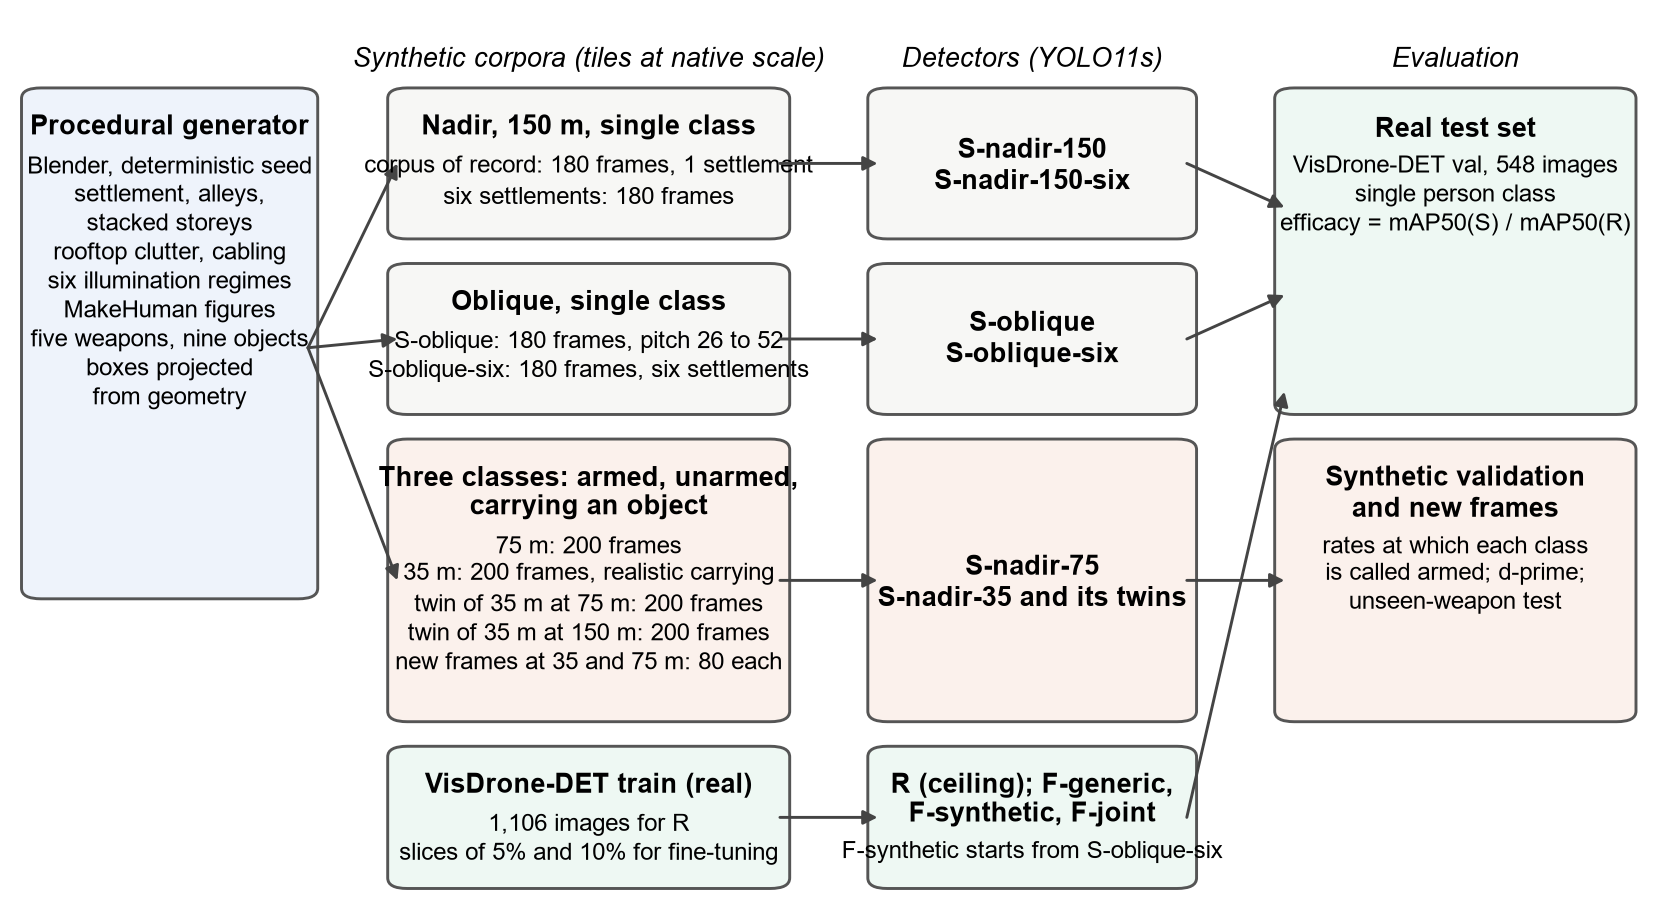
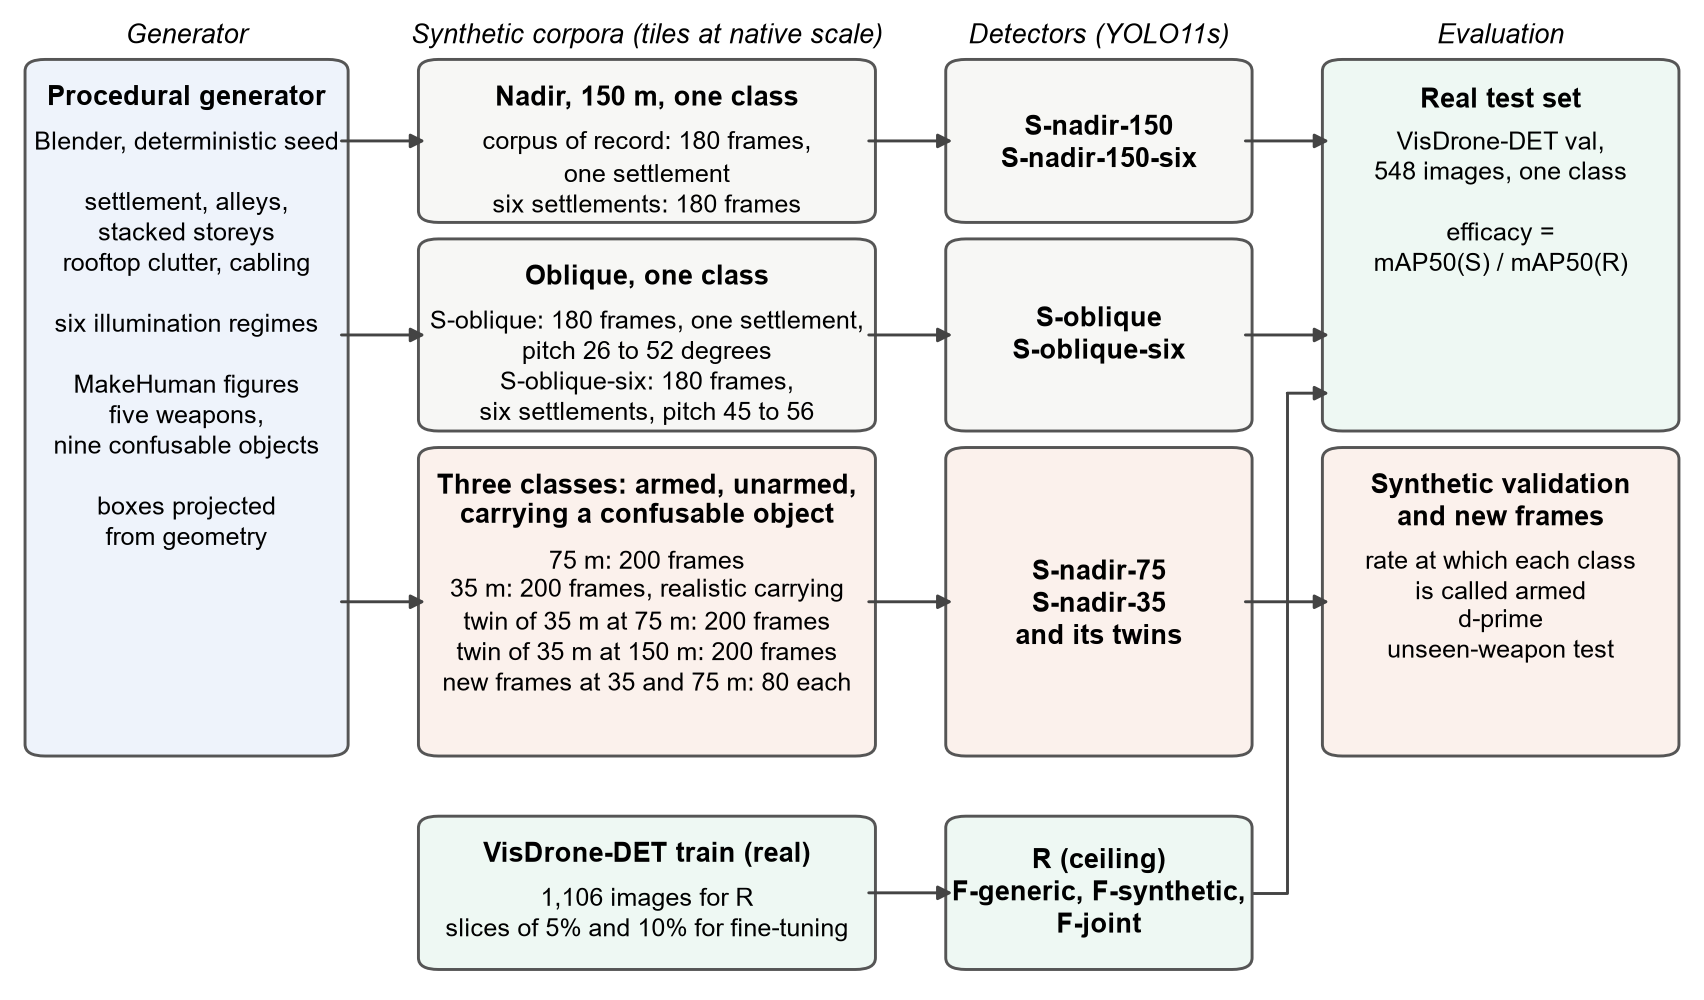
Figura 5 (desenho experimental) refeita: setas horizontais, texto dentro das caixas

Changed region(s): [[0.0, 0.0, 1.0, 0.9879], [0.0, 0.7409, 0.2154, 0.7718], [0.0616, 0.4939, 0.1539, 0.5557]]

diff --git a/06-resultados/figuras_mpl.py b/06-resultados/figuras_mpl.py
@@ -114,56 +114,83 @@ def L(*linhas):
 
 
 def fig_desenho():
-    fig, ax = plt.subplots(figsize=(7.0, 3.8), dpi=300)
+    """Fluxo em quatro colunas com setas so horizontais (e um cotovelo pela calha entre colunas),
+    para nenhuma seta cruzar texto; refeito em 30/09 depois de o autor apontar a versao anterior
+    como mal formatada (setas diagonais sobre o texto e linhas saindo das caixas)."""
+    fig, ax = plt.subplots(figsize=(7.2, 4.2), dpi=300)
     ax.set_xlim(0, 1)
     ax.set_ylim(0, 1)
     ax.axis("off")
-    X1, W1 = 0.235, 0.235   # corpora
-    X2, W2 = 0.53, 0.19     # detectores
-    X3, W3 = 0.78, 0.21     # avaliacao
-    R1 = (0.75, 0.16)       # (base, altura) linha nadir
-    R2 = (0.55, 0.16)       # obliquo
-    R3 = (0.20, 0.31)       # tres classes
-    R4 = (0.01, 0.15)       # dado real
+    XA, WA = 0.01, 0.185    # gerador
+    XB, WB = 0.245, 0.265   # corpora
+    XC, WC = 0.56, 0.175    # detectores
+    XD, WD = 0.785, 0.205   # avaliacao
+    R1 = (0.79, 0.16)       # (base, altura) nadir
+    R2 = (0.575, 0.19)      # obliquo
+    R3 = (0.24, 0.31)       # tres classes
+    R4 = (0.02, 0.15)       # dado real
     mid = lambda r: r[0] + r[1] / 2  # noqa: E731
+    TIT, CORPO = 6.6, 5.9
 
-    caixa(ax, 0.01, 0.34, 0.17, 0.57, "Procedural generator",
-          L("Blender, deterministic seed", "settlement, alleys,", "stacked storeys", "rooftop clutter, cabling",
-            "six illumination regimes", "MakeHuman figures", "five weapons, nine objects", "boxes projected",
-            "from geometry"), cor="#eef3fb")
-    for r in (R1, R2, R3):
-        seta(ax, 0.18, 0.62, X1, mid(r))
+    def bloco(x, y, w, h, titulo, corpo="", cor="#f7f7f5"):
+        ax.add_patch(FancyBboxPatch((x, y), w, h, boxstyle="round,pad=0.004,rounding_size=0.012",
+                                    fc=cor, ec="#555", lw=0.7, zorder=2))
+        n_tit = titulo.count(NL) + 1
+        if corpo:
+            ax.text(x + w / 2, y + h - 0.02, titulo, ha="center", va="top", fontsize=TIT, fontweight="bold",
+                    zorder=3, linespacing=1.15)
+            ax.text(x + w / 2, y + h - 0.02 - 0.03 * n_tit - 0.016, corpo, ha="center", va="top",
+                    fontsize=CORPO, zorder=3, linespacing=1.32)
+        else:
+            ax.text(x + w / 2, y + h / 2, titulo, ha="center", va="center", fontsize=TIT, fontweight="bold",
+                    zorder=3, linespacing=1.25)
 
-    ax.text(X1 + W1 / 2, 0.94, "Synthetic corpora (tiles at native scale)", ha="center", fontsize=6.6, style="italic")
-    caixa(ax, X1, R1[0], W1, R1[1], "Nadir, 150 m, single class",
-          L("corpus of record: 180 frames, 1 settlement", "six settlements: 180 frames"), cor="#f7f7f5")
-    caixa(ax, X1, R2[0], W1, R2[1], "Oblique, single class",
-          L("S-oblique: 180 frames, pitch 26 to 52", "S-oblique-six: 180 frames, six settlements"), cor="#f7f7f5")
-    caixa(ax, X1, R3[0], W1, R3[1], L("Three classes: armed, unarmed,", "carrying an object"),
+    def cabeca(x, w, txt):
+        ax.text(x + w / 2, 0.978, txt, ha="center", va="center", fontsize=6.6, style="italic")
+
+    def seta_h(x0, x1, y):
+        seta(ax, x0, y, x1, y)
+
+    cabeca(XA, WA, "Generator")
+    bloco(XA, R3[0], WA, R1[0] + R1[1] - R3[0], "Procedural generator",
+          L("Blender, deterministic seed", "", "settlement, alleys,", "stacked storeys", "rooftop clutter, cabling",
+            "", "six illumination regimes", "", "MakeHuman figures", "five weapons,", "nine confusable objects", "",
+            "boxes projected", "from geometry"), cor="#eef3fb")
+
+    cabeca(XB, WB, "Synthetic corpora (tiles at native scale)")
+    bloco(XB, R1[0], WB, R1[1], "Nadir, 150 m, one class",
+          L("corpus of record: 180 frames,", "one settlement", "six settlements: 180 frames"))
+    bloco(XB, R2[0], WB, R2[1], "Oblique, one class",
+          L("S-oblique: 180 frames, one settlement,", "pitch 26 to 52 degrees",
+            "S-oblique-six: 180 frames,", "six settlements, pitch 45 to 56"))
+    bloco(XB, R3[0], WB, R3[1], L("Three classes: armed, unarmed,", "carrying a confusable object"),
           L("75 m: 200 frames", "35 m: 200 frames, realistic carrying", "twin of 35 m at 75 m: 200 frames",
             "twin of 35 m at 150 m: 200 frames", "new frames at 35 and 75 m: 80 each"), cor="#fbf1ec")
-    caixa(ax, X1, R4[0], W1, R4[1], "VisDrone-DET train (real)",
+    bloco(XB, R4[0], WB, R4[1], "VisDrone-DET train (real)",
           L("1,106 images for R", "slices of 5% and 10% for fine-tuning"), cor="#eef8f3")
+    for r in (R1, R2, R3):
+        seta_h(XA + WA, XB, mid(r))
 
-    ax.text(X2 + W2 / 2, 0.94, "Detectors (YOLO11s)", ha="center", fontsize=6.6, style="italic")
-    caixa(ax, X2, R1[0], W2, R1[1], L("S-nadir-150", "S-nadir-150-six"), cor="#f7f7f5")
-    caixa(ax, X2, R2[0], W2, R2[1], L("S-oblique", "S-oblique-six"), cor="#f7f7f5")
-    caixa(ax, X2, R3[0], W2, R3[1], L("S-nadir-75", "S-nadir-35 and its twins"), cor="#fbf1ec")
-    caixa(ax, X2, R4[0], W2, R4[1], L("R (ceiling); F-generic,", "F-synthetic, F-joint"),
-          "F-synthetic starts from S-oblique-six", cor="#eef8f3")
+    cabeca(XC, WC, "Detectors (YOLO11s)")
+    bloco(XC, R1[0], WC, R1[1], L("S-nadir-150", "S-nadir-150-six"))
+    bloco(XC, R2[0], WC, R2[1], L("S-oblique", "S-oblique-six"))
+    bloco(XC, R3[0], WC, R3[1], L("S-nadir-75", "S-nadir-35", "and its twins"), cor="#fbf1ec")
+    bloco(XC, R4[0], WC, R4[1], L("R (ceiling)", "F-generic, F-synthetic,", "F-joint"), cor="#eef8f3")
     for r in (R1, R2, R3, R4):
-        seta(ax, X1 + W1, mid(r), X2, mid(r))
+        seta_h(XB + WB, XC, mid(r))
 
-    ax.text(X3 + W3 / 2, 0.94, "Evaluation", ha="center", fontsize=6.6, style="italic")
-    caixa(ax, X3, R2[0], W3, R1[0] + R1[1] - R2[0], "Real test set",
-          L("VisDrone-DET val, 548 images", "single person class", "efficacy = mAP50(S) / mAP50(R)"), cor="#eef8f3")
-    caixa(ax, X3, R3[0], W3, R3[1], L("Synthetic validation", "and new frames"),
-          L("rates at which each class", "is called armed; d-prime;", "unseen-weapon test"), cor="#fbf1ec")
-    ymid_real = (R2[0] + R1[0] + R1[1]) / 2
-    seta(ax, X2 + W2, mid(R1), X3, ymid_real + 0.05)
-    seta(ax, X2 + W2, mid(R2), X3, ymid_real - 0.05)
-    seta(ax, X2 + W2, mid(R3), X3, mid(R3))
-    seta(ax, X2 + W2, mid(R4), X3, R2[0] + 0.02)
+    cabeca(XD, WD, "Evaluation")
+    bloco(XD, R2[0], WD, R1[0] + R1[1] - R2[0], "Real test set",
+          L("VisDrone-DET val,", "548 images, one class", "", "efficacy =", "mAP50(S) / mAP50(R)"), cor="#eef8f3")
+    bloco(XD, R3[0], WD, R3[1], L("Synthetic validation", "and new frames"),
+          L("rate at which each class", "is called armed", "d-prime", "unseen-weapon test"), cor="#fbf1ec")
+    seta_h(XC + WC, XD, mid(R1))
+    seta_h(XC + WC, XD, mid(R2))
+    seta_h(XC + WC, XD, mid(R3))
+    # R e os modelos de ajuste fino vao ao mesmo conjunto de teste real: cotovelo pela calha
+    xg = XC + WC + (XD - XC - WC) / 2
+    ax.plot([XC + WC, xg, xg], [mid(R4), mid(R4), R2[0] + 0.035], color="#444", lw=0.7, zorder=1)
+    seta_h(xg, XD, R2[0] + 0.035)
 
     fig.savefig(os.path.join(OUT, "fig9_desenho_experimental.png"), bbox_inches="tight", pad_inches=0.05)
     plt.close(fig)

diff --git a/01-artigo/manuscrito/03b-methodology-synthetic-pipeline.md b/01-artigo/manuscrito/03b-methodology-synthetic-pipeline.md
@@ -325,4 +325,4 @@ than by training volume. The difference mAP50(S-oblique) minus mAP50(S-nadir-150
 one training run per model, the contribution of capture geometry, one effect of which Section 8.2
 measures as a factor-of-two difference in target shape between this corpus and the benchmark.
 
-<!--FIG:06-resultados/figuras/fig9_desenho_experimental.png|The design of the experiment. One procedural generator produces every synthetic corpus; the corpora differ in camera, altitude and the classes annotated. Single-class models are scored on the real benchmark, against the ceiling R trained on a matched number of real images; three-class models are scored on the validation split of their own corpus and on new frames rendered after training. The fine-tuning and joint models use slices of the benchmark's training split and are scored on the same real test set.-->
+<!--FIG:06-resultados/figuras/fig9_desenho_experimental.png|The design of the experiment. One procedural generator produces every synthetic corpus; the corpora differ in camera, altitude and the classes annotated. Single-class models are scored on the real benchmark, against the ceiling R trained on a matched number of real images; three-class models are scored on the validation split of their own corpus and on new frames rendered after training. The fine-tuning and joint models use slices of the benchmark's training split and are scored on the same real test set; the synthetic-start fine-tuning models begin from S-oblique-six.-->
